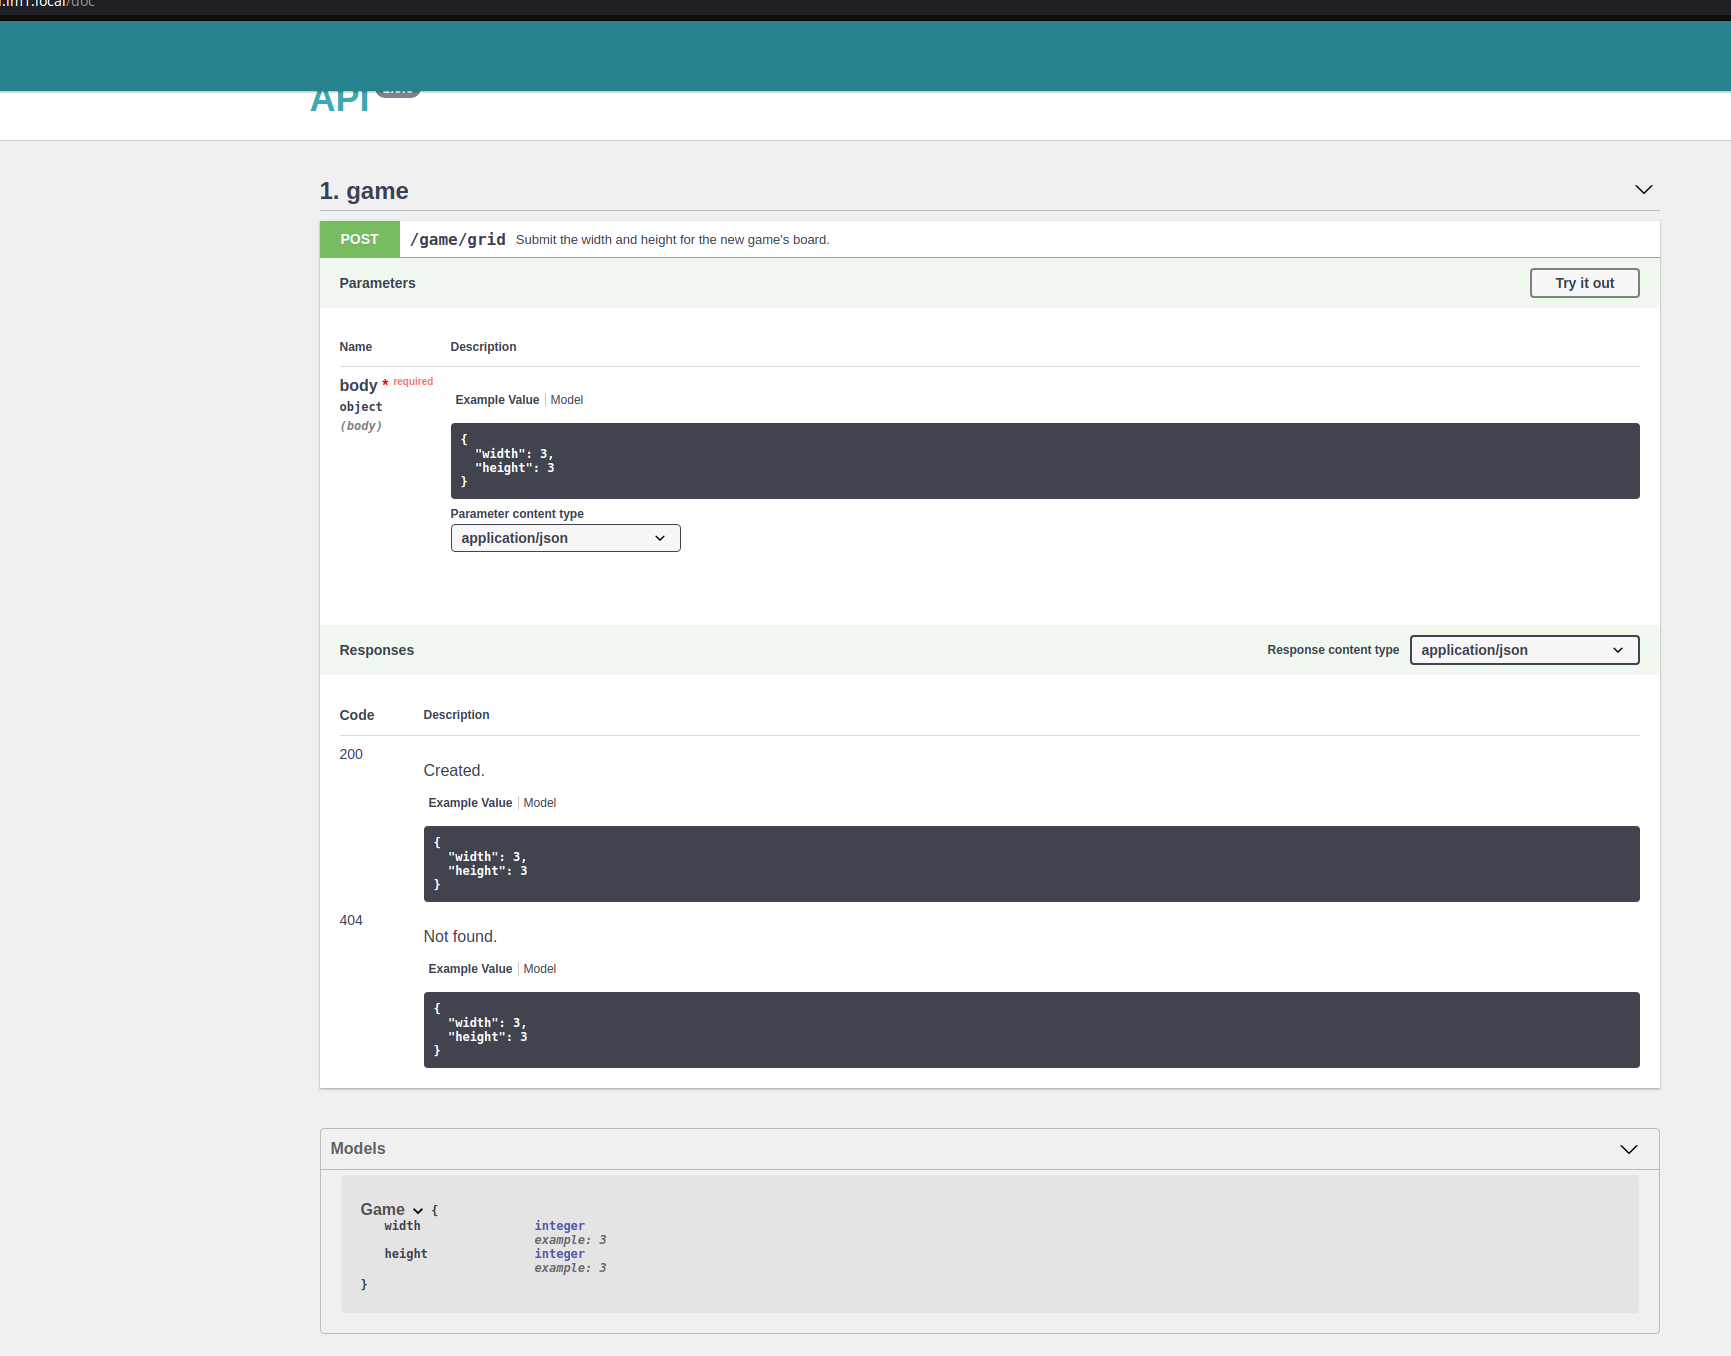
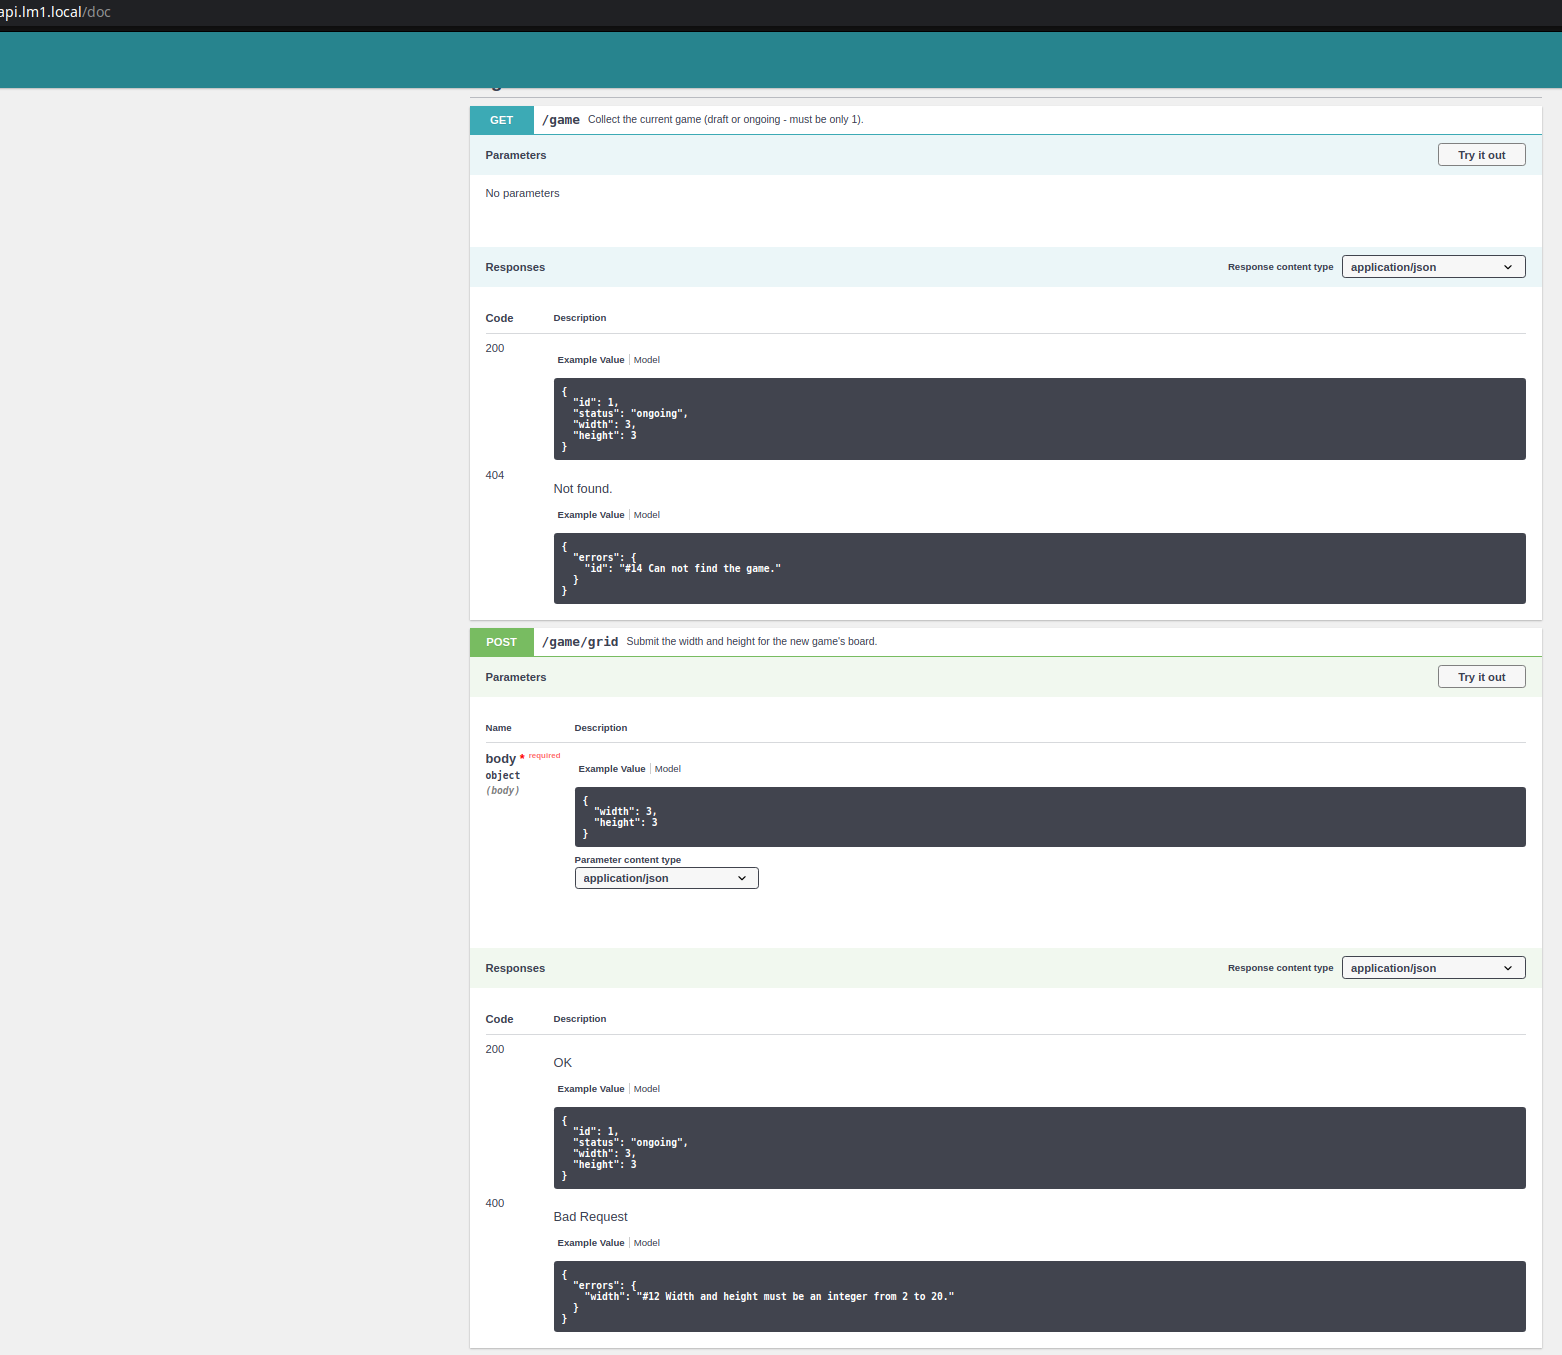
#27 GameController: Update API annotations

diff --git a/symfony5/src/Controller/GameController.php b/symfony5/src/Controller/GameController.php
@@ -22,7 +22,7 @@ class GameController extends AbstractController
      * @SWG\Tag(name="1. game")
      *
      * @SWG\Response(response=200, description="", @SWG\Schema(type="object", ref=@Model(type=Game::class, groups={"PUB"})))
-     * @SWG\Response(response=404, description="Not found.", @SWG\Schema(type="object", ref=@Model(type=Game::class, groups={"PUB"})))
+     * @SWG\Response(response=404, description="Not found.", @SWG\Schema(type="object", @SWG\Property(property="errors", type="object", example={ "id": "#14 Can not find the game."})))
      */
     public function getCurrentGame(IGameRepo $gameRepo): JsonResponse
     {
@@ -48,9 +48,9 @@ class GameController extends AbstractController
      * @Route("/game/grid", name="setBoardDimensions", methods={"POST"})
      * @SWG\Tag(name="1. game")
      *
-     * @SWG\Parameter(name="body", in="body", required=true, @SWG\Schema(required={"width", "height"}, type="object", ref=@Model(type=Game::class, groups={"PUB"})))
+     * @SWG\Parameter(name="body", in="body", required=true, @SWG\Schema(required={"width", "height"}, type="object", ref=@Model(type=Game::class, groups={"CREATE"})))
      * @SWG\Response(response=200, description="OK", @SWG\Schema(type="object", ref=@Model(type=Game::class, groups={"PUB"})))
-     * @SWG\Response(response=400, description="Bad Request", @SWG\Schema(type="object", ref=@Model(type=Game::class, groups={"PUB"})))
+	 * @SWG\Response(response=400, description="Bad Request", @SWG\Schema(type="object", @SWG\Property(property="errors", type="object", example={"width": "#12 Width and height must be an integer from 2 to 20."})))
      */
     public function setBoardDimensions(Request $request, GameCreatorService $gameCreatorService): JsonResponse
     {

diff --git a/symfony5/src/Entity/Game.php b/symfony5/src/Entity/Game.php
@@ -58,7 +58,7 @@ class Game
     /**
      * @ORM\Column(type="string", nullable=true)
      * @SWG\Property(property="status", type="string", example="ongoing")
-     * @Groups({"CREATE", "PUB", "ID_ERROR"})
+     * @Groups({"PUB", "ID_ERROR"})
      */
     private ?string $status = null;
 
